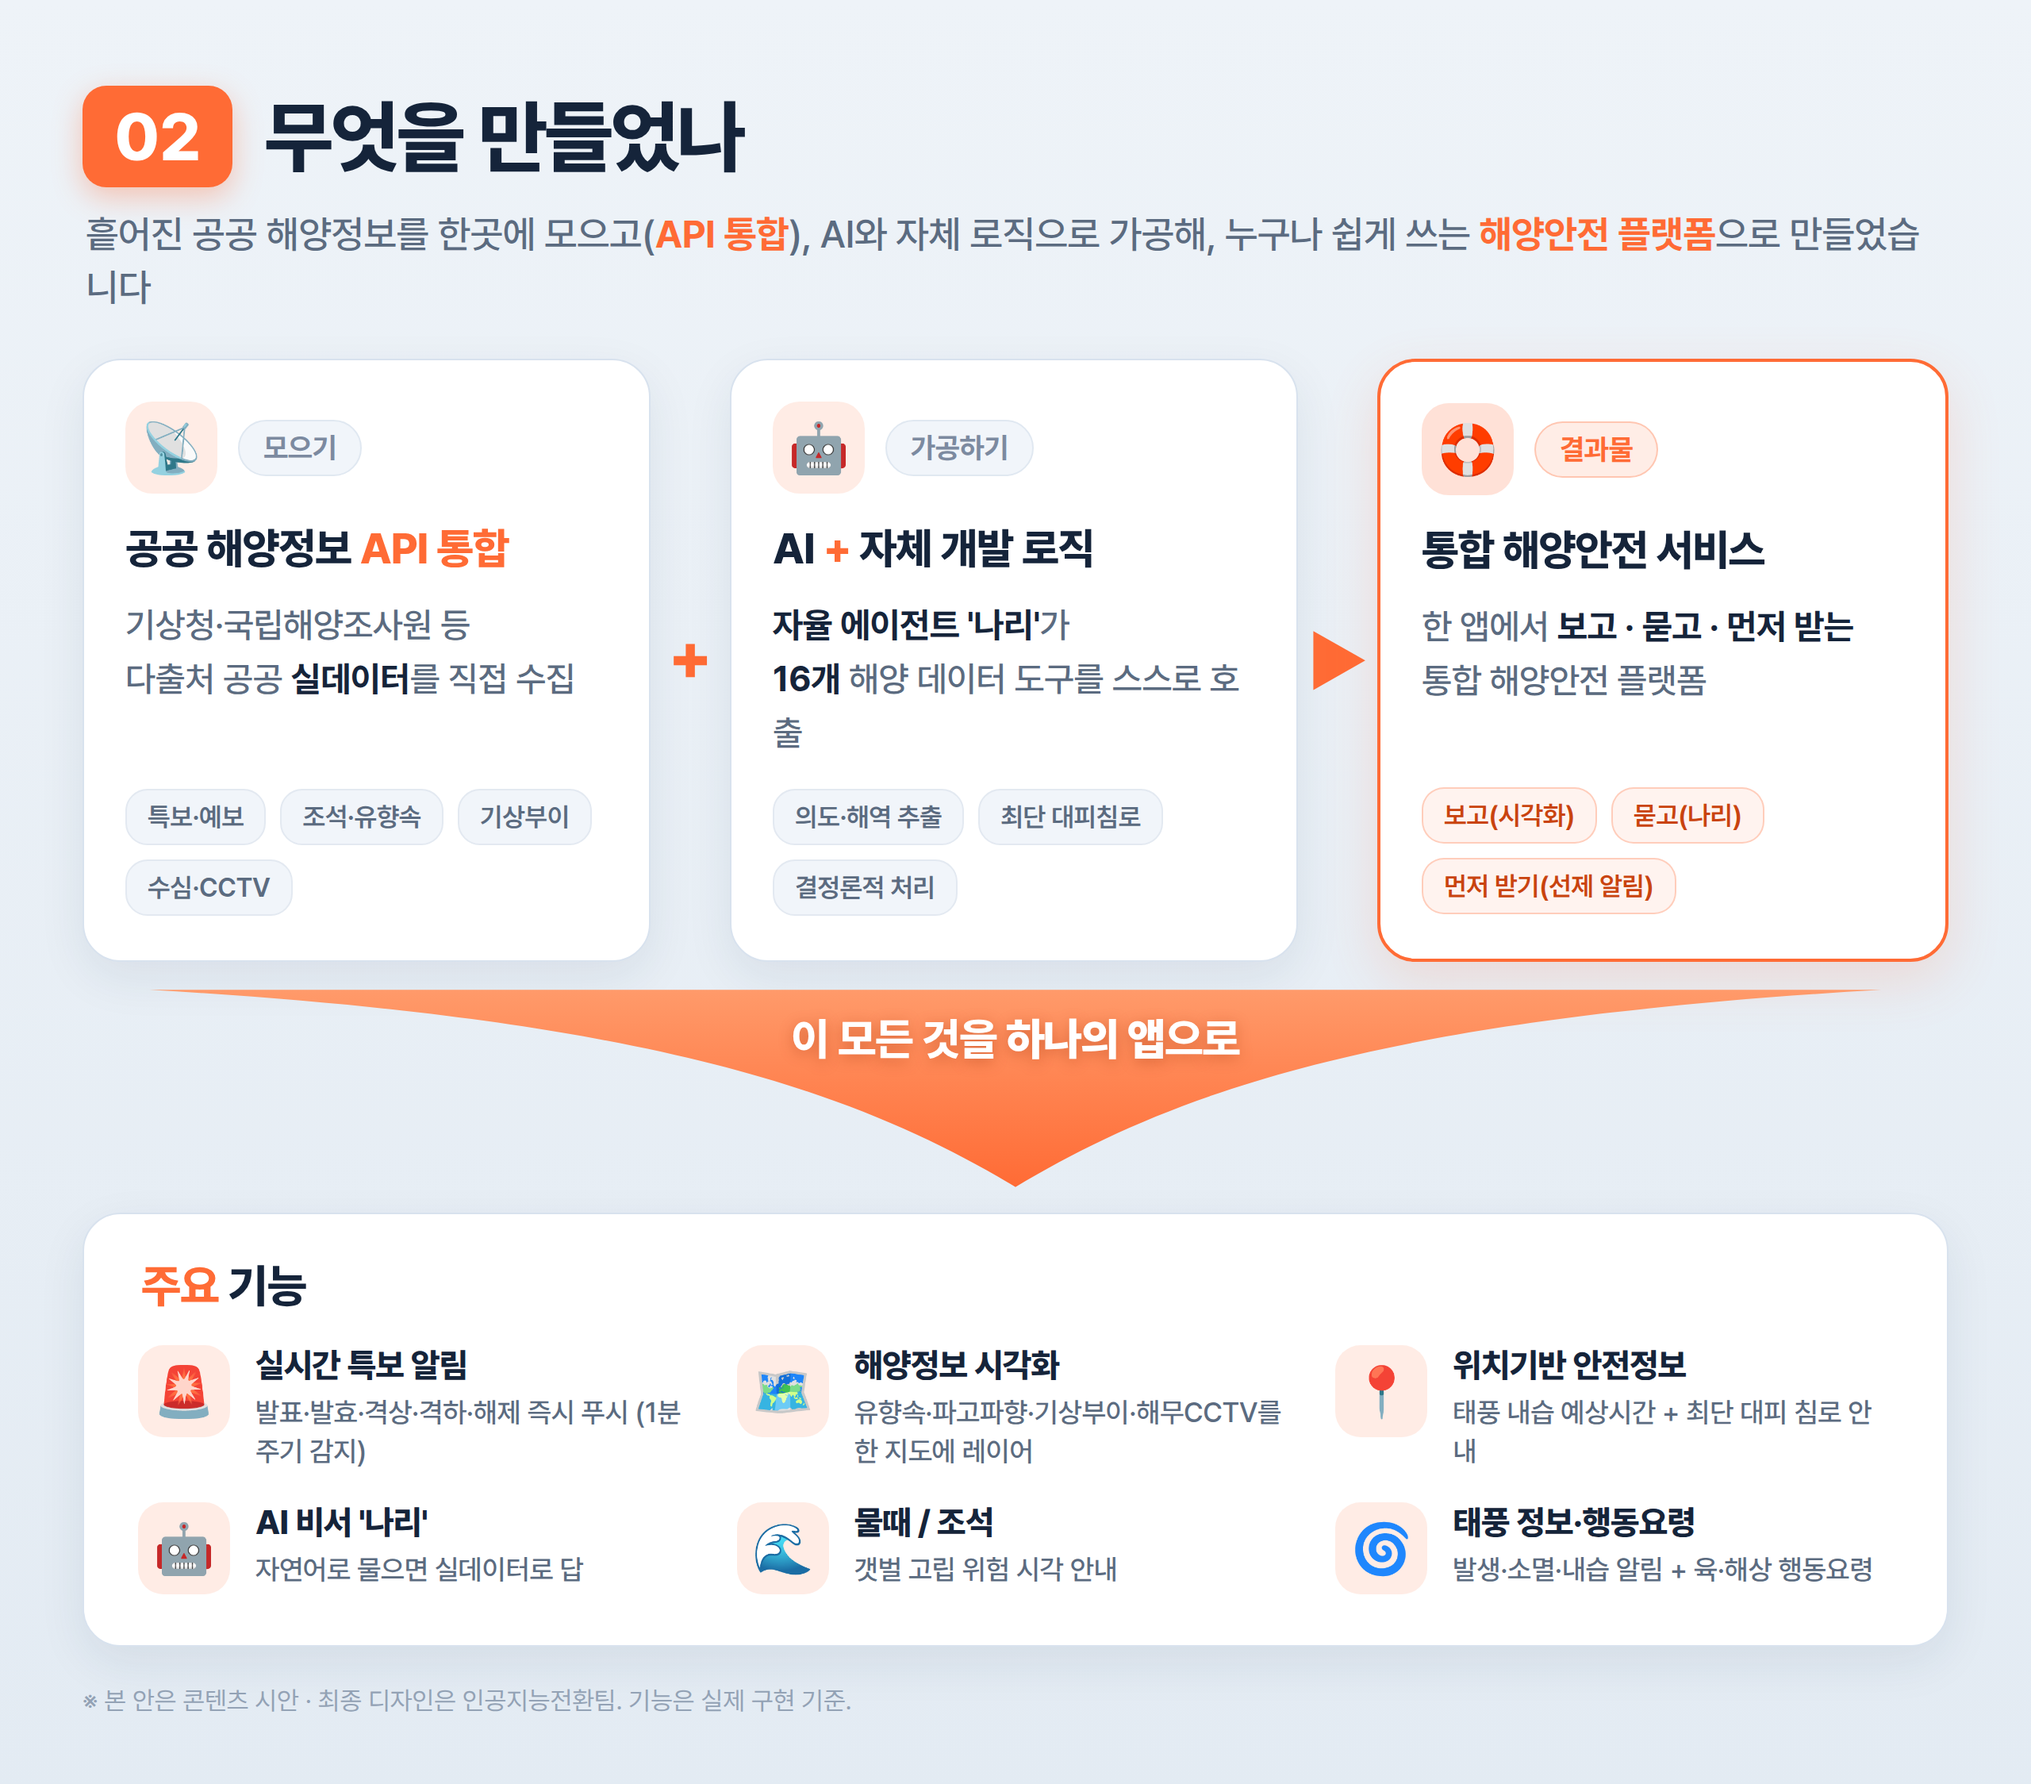
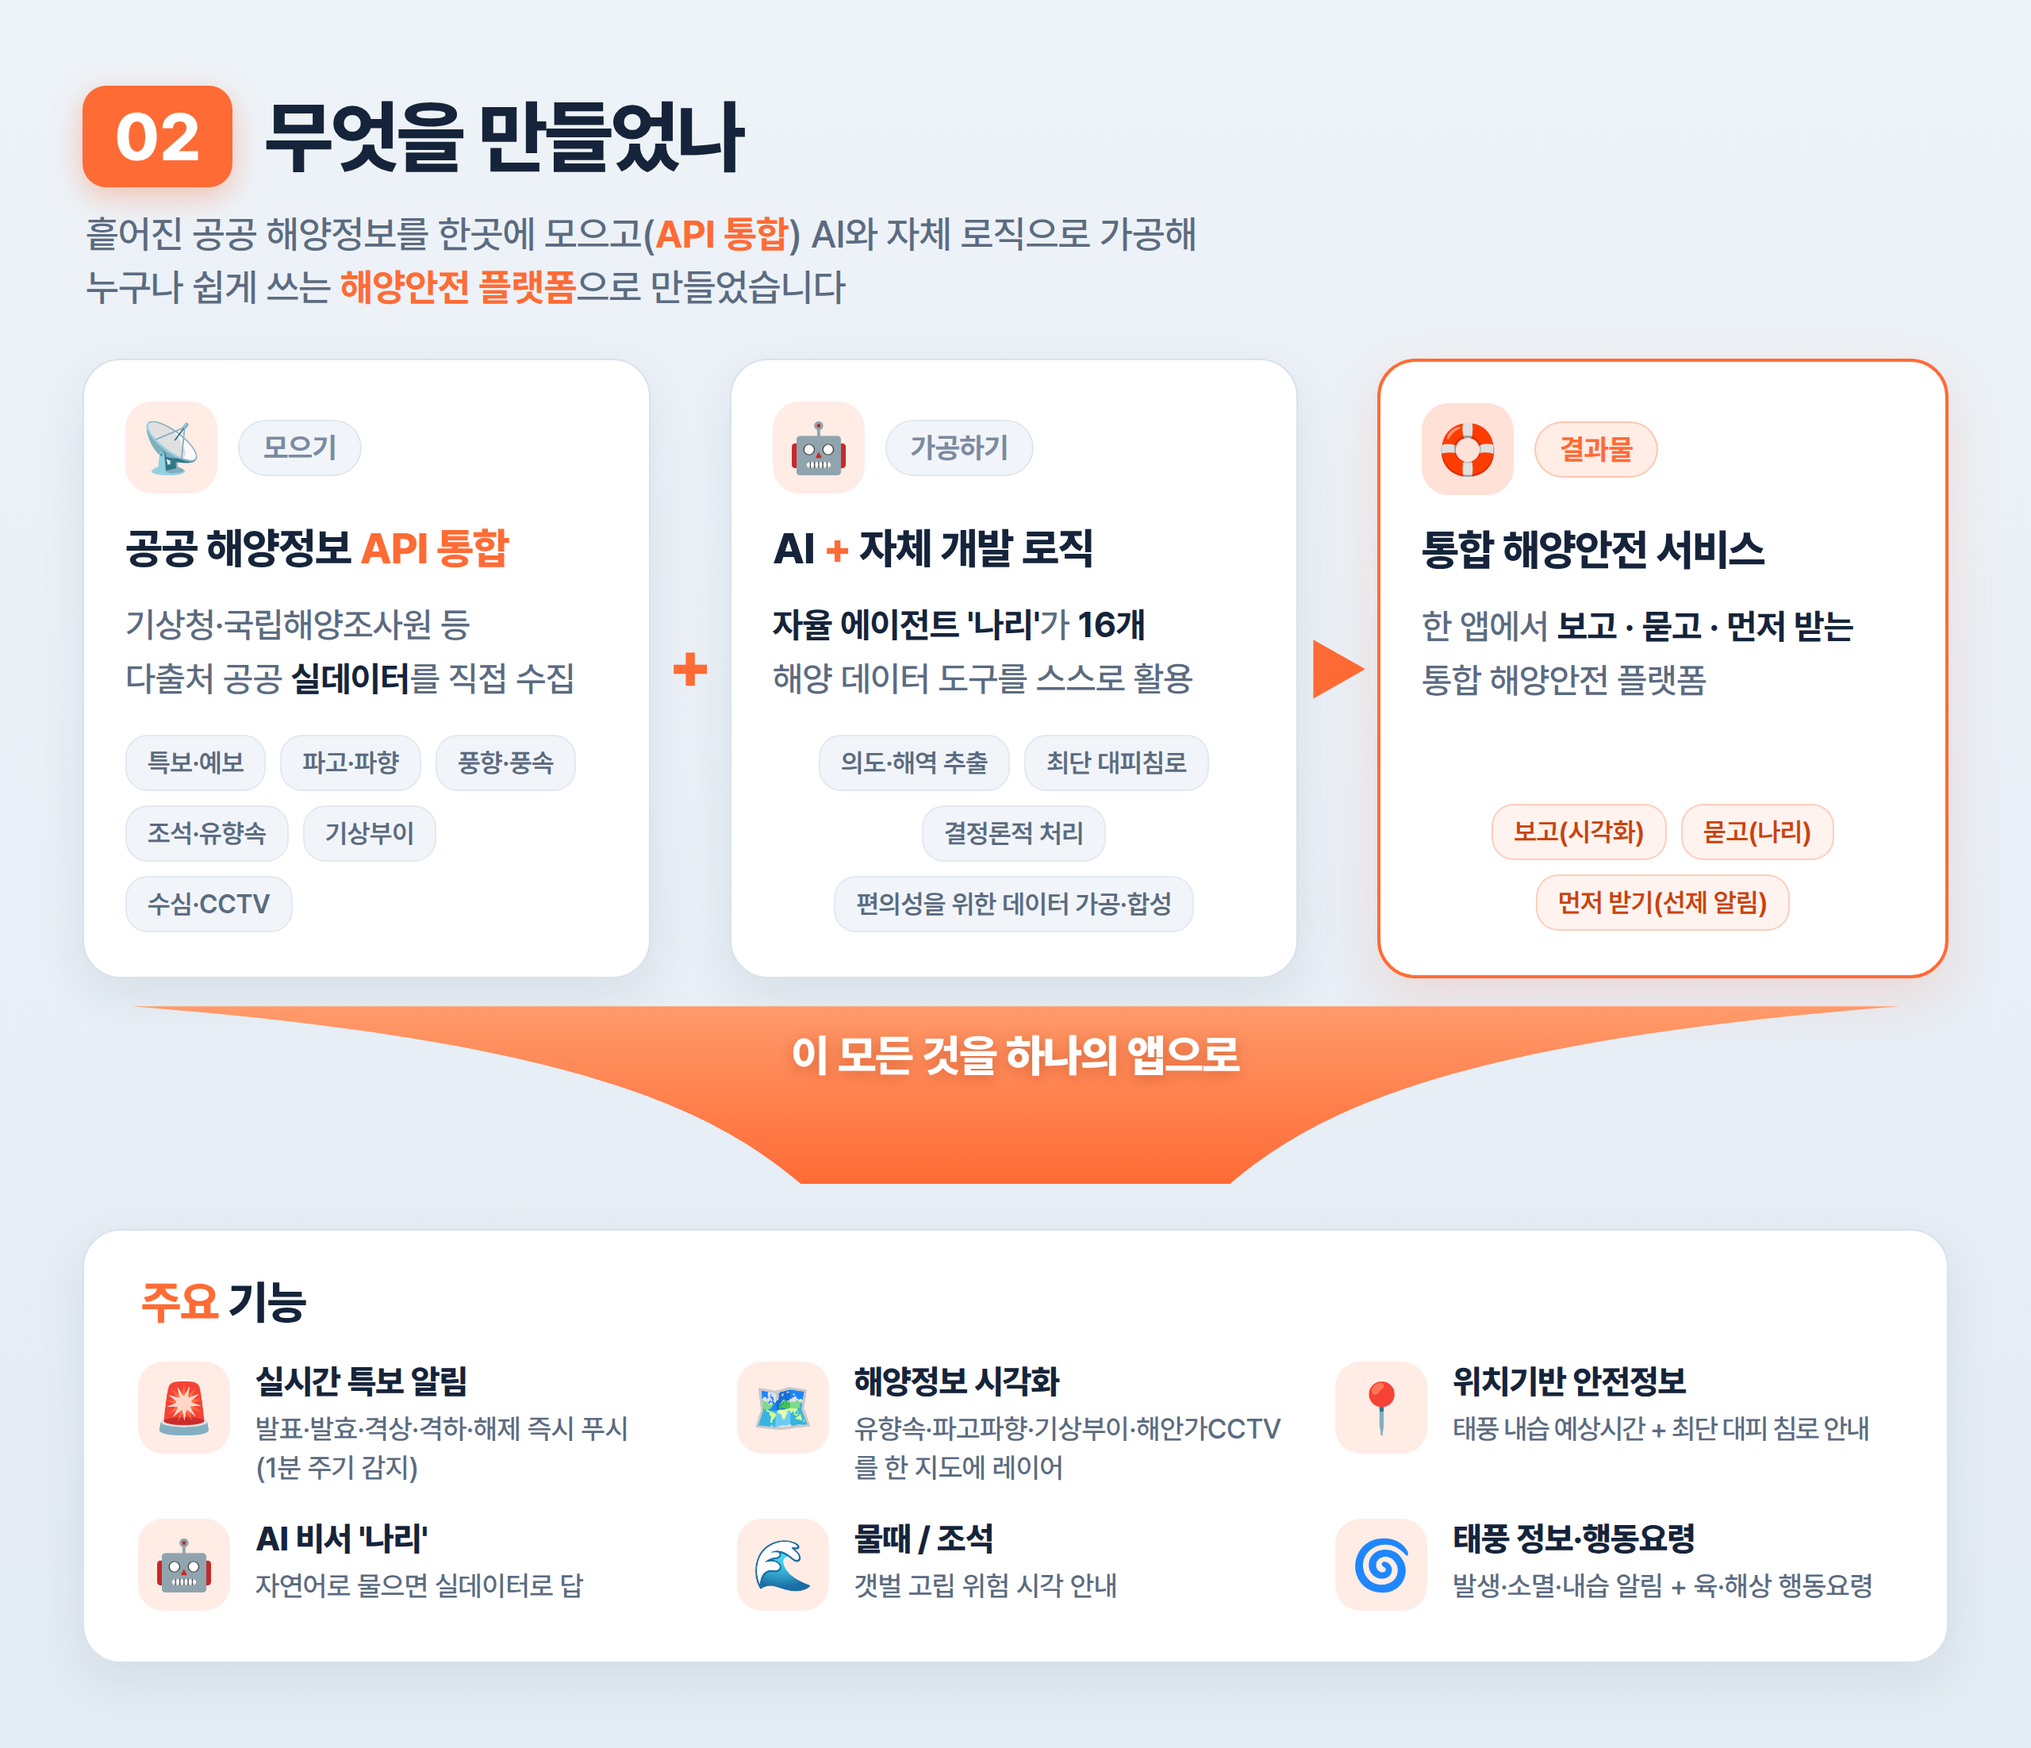
feat(formboard): 02 박스 태그·문구·정렬·화살표·sub 다듬기
- sub: 쉼표 제거 + '가공해' 뒤 줄바꿈(누구나 쉽게 쓰는~ 2줄)
- 박스1: 파고·파향·풍향·풍속 태그 추가
- 박스2: '나리가 16개' 윗줄 + '스스로 활용', 태그 중앙정렬 + '편의성을 위한 데이터 가공·합성' 추가
- 박스3: 태그 중앙정렬(보고·묻고 / 먼저 받기)
- 중앙 화살표 바닥을 넓게(뾰족함 완화)
- foot 안내문 삭제
- 주요기능: '(1분 주기 감지)' 2줄, 위치기반 한 줄(자간↓), 해무CCTV→해안가CCTV

Claude-Session: https://claude.ai/code/session_01NPSXCfcq7AeQ1foaBkT7hE

diff --git a/keynote_seagnal/formboard_what.html b/keynote_seagnal/formboard_what.html
@@ -26,6 +26,7 @@ html,body{font-family:'Pretendard',sans-serif;-webkit-font-smoothing:antialiased
 .fdesc b{color:#15243a;font-weight:700;}
 .fdesc .o{color:#FF6B35;font-weight:700;}
 .ftags{display:flex;flex-wrap:wrap;gap:9px;margin-top:auto;padding-top:18px;align-self:stretch;}
+.ftags.cen{justify-content:center;}
 .ftag{background:#f1f5fa;border:1px solid #e3e9f1;border-radius:14px;padding:7px 13px;color:#5b6b80;font-size:16.5px;font-weight:600;letter-spacing:-.01em;}
 .fbox.res .ftag{background:rgba(255,107,53,.08);border-color:rgba(255,107,53,.28);color:#C9430E;}
 .conn{flex:0 0 50px;display:flex;align-items:center;justify-content:center;color:#FF6B35;font-size:42px;font-weight:800;}
@@ -48,7 +49,7 @@ html,body{font-family:'Pretendard',sans-serif;-webkit-font-smoothing:antialiased
 </style></head><body>
 <div id="card">
  <div class="h"><span class="no">02</span><span class="t">무엇을 만들었나</span></div>
- <div class="sub">흩어진 공공 해양정보를 한곳에 모으고(<b>API 통합</b>), AI와 자체 로직으로 가공해, 누구나 쉽게 쓰는 <b>해양안전 플랫폼</b>으로 만들었습니다</div>
+ <div class="sub">흩어진 공공 해양정보를 한곳에 모으고(<b>API 통합</b>) AI와 자체 로직으로 가공해<br>누구나 쉽게 쓰는 <b>해양안전 플랫폼</b>으로 만들었습니다</div>
 
  <!-- 상단: [박스1] ＋ [박스2] ▶ [박스3] -->
  <div class="flow">
@@ -56,7 +57,7 @@ html,body{font-family:'Pretendard',sans-serif;-webkit-font-smoothing:antialiased
      <div class="fhead"><div class="ficon">📡</div><span class="fstep">모으기</span></div>
      <div class="ftt">공공 해양정보 <span class="o">API 통합</span></div>
      <div class="fdesc">기상청·국립해양조사원 등<br>다출처 공공 <b>실데이터</b>를 직접 수집</div>
-     <div class="ftags"><span class="ftag">특보·예보</span><span class="ftag">조석·유향속</span><span class="ftag">기상부이</span><span class="ftag">수심·CCTV</span></div>
+     <div class="ftags"><span class="ftag">특보·예보</span><span class="ftag">파고·파향</span><span class="ftag">풍향·풍속</span><span class="ftag">조석·유향속</span><span class="ftag">기상부이</span><span class="ftag">수심·CCTV</span></div>
    </div>
 
    <div class="conn">＋</div>
@@ -64,8 +65,8 @@ html,body{font-family:'Pretendard',sans-serif;-webkit-font-smoothing:antialiased
    <div class="cardbox fbox">
      <div class="fhead"><div class="ficon">🤖</div><span class="fstep">가공하기</span></div>
      <div class="ftt">AI <span class="o">+</span> 자체 개발 로직</div>
-     <div class="fdesc"><b>자율 에이전트 '나리'</b>가<br><b>16개</b> 해양 데이터 도구를 스스로 호출</div>
-     <div class="ftags"><span class="ftag">의도·해역 추출</span><span class="ftag">최단 대피침로</span><span class="ftag">결정론적 처리</span></div>
+     <div class="fdesc"><b>자율 에이전트 '나리'</b>가 <b>16개</b><br>해양 데이터 도구를 스스로 활용</div>
+     <div class="ftags cen"><span class="ftag">의도·해역 추출</span><span class="ftag">최단 대피침로</span><span class="ftag">결정론적 처리</span><span class="ftag">편의성을 위한 데이터 가공·합성</span></div>
    </div>
 
    <div class="conn">▶</div>
@@ -74,7 +75,7 @@ html,body{font-family:'Pretendard',sans-serif;-webkit-font-smoothing:antialiased
      <div class="fhead"><div class="ficon">🛟</div><span class="fstep">결과물</span></div>
      <div class="ftt">통합 해양안전 서비스</div>
      <div class="fdesc">한 앱에서 <b>보고 · 묻고 · 먼저 받는</b><br>통합 해양안전 플랫폼</div>
-     <div class="ftags"><span class="ftag">보고(시각화)</span><span class="ftag">묻고(나리)</span><span class="ftag">먼저 받기(선제 알림)</span></div>
+     <div class="ftags cen"><span class="ftag">보고(시각화)</span><span class="ftag">묻고(나리)</span><span class="ftag">먼저 받기(선제 알림)</span></div>
    </div>
  </div>
 
@@ -82,7 +83,7 @@ html,body{font-family:'Pretendard',sans-serif;-webkit-font-smoothing:antialiased
  <div class="funnel">
    <svg viewBox="0 0 1000 200" preserveAspectRatio="none">
      <defs><linearGradient id="fgrad" x1="0" y1="0" x2="0" y2="1"><stop offset="0" stop-color="#FF9A6A"/><stop offset="1" stop-color="#FF6B35"/></linearGradient></defs>
-     <path d="M36,14 L964,14 C700,40 588,104 500,194 C412,104 300,40 36,14 Z" fill="url(#fgrad)"/>
+     <path d="M26,14 L974,14 C730,46 660,112 615,176 L385,176 C340,112 270,46 26,14 Z" fill="url(#fgrad)"/>
    </svg>
    <div class="ftext">이 모든 것을 <b>하나의 앱</b>으로</div>
  </div>
@@ -94,17 +95,17 @@ html,body{font-family:'Pretendard',sans-serif;-webkit-font-smoothing:antialiased
      <div class="wtile">
        <div class="ic">🚨</div>
        <div class="tx"><div class="tt">실시간 특보 알림</div>
-         <div class="ds">발표·발효·격상·격하·해제 즉시 푸시 (1분 주기 감지)</div></div>
+         <div class="ds">발표·발효·격상·격하·해제 즉시 푸시<br>(1분 주기 감지)</div></div>
      </div>
      <div class="wtile">
        <div class="ic">🗺</div>
        <div class="tx"><div class="tt">해양정보 시각화</div>
-         <div class="ds">유향속·파고파향·기상부이·해무CCTV를 한 지도에 레이어</div></div>
+         <div class="ds">유향속·파고파향·기상부이·해안가CCTV를 한 지도에 레이어</div></div>
      </div>
      <div class="wtile">
        <div class="ic">📍</div>
        <div class="tx"><div class="tt">위치기반 안전정보</div>
-         <div class="ds">태풍 내습 예상시간 + 최단 대피 침로 안내</div></div>
+         <div class="ds" style="letter-spacing:-.05em;white-space:nowrap;">태풍 내습 예상시간 + 최단 대피 침로 안내</div></div>
      </div>
      <div class="wtile">
        <div class="ic">🤖</div>
@@ -124,6 +125,5 @@ html,body{font-family:'Pretendard',sans-serif;-webkit-font-smoothing:antialiased
    </div>
  </div>
 
- <div class="foot">※ 본 안은 콘텐츠 시안 · 최종 디자인은 인공지능전환팀. 기능은 실제 구현 기준.</div>
 </div>
 </body></html>
